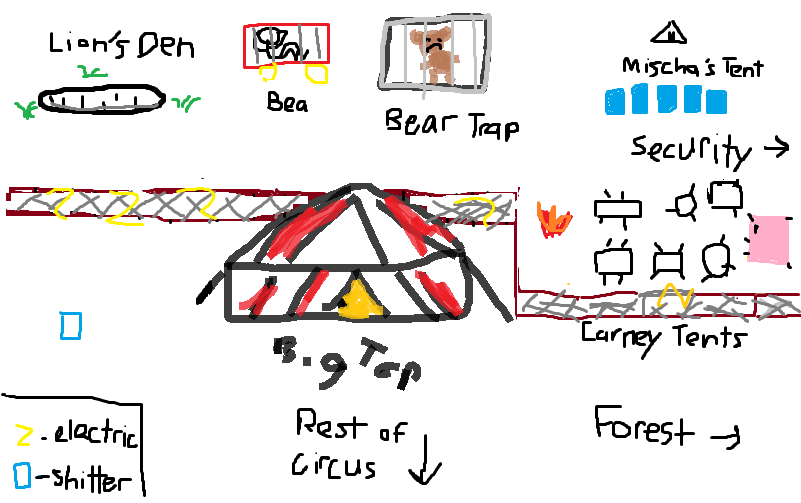
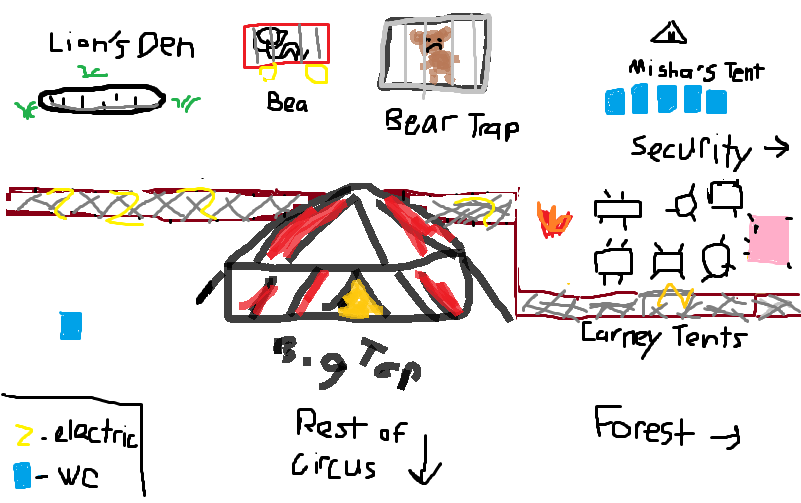
Fixed typo and map

Changed region(s): [[0.7803, 0.1193, 0.9675, 0.1789], [0.0, 0.9245, 0.1561, 0.9841], [0.0624, 0.6262, 0.1248, 0.6859]]

diff --git a/index.html b/index.html
@@ -89,7 +89,7 @@
               <div class="layout_hello__content">
                 <div class="container-fluid">
                   <div class="d-block row">
-                    <p>Uh, so, I don't know how to tell you this, but the bears have been acting real strange. They've been huddled together at the corner of their cages, grunting to each other real quiet, looking over their shoulders to check if anyone's listening, stopping the second they notice me. They're planning something, I can feel it.<p>Now, before you go, "Oh that Mischa with his conspiracy theories of the bears plotting and the lions unionizing", I'm really worried here. These animals are smarter than you think they are, and they know they ain't being treated right. The only way I can get them to do any tricks nowadays is if I bribe them with honey. Now I don't mean they do the trick and I give them honey, I mean I say "I'll give you honey if do this trick" and they perk up and do the trick. They can understand me, I swear to God.</p><p>I respect you, Barien. You're the best damn ringmaster this circus has ever seen, and I ain't just saying that because you're the only ringmaster this circus has ever seen. But you're being really stubborn when it comes to making sure the animals are comfortable and happy. We have <em>mountains</em> of honey in this damn circus, yet barely any of it gets to the bears!</p><p><strong>Please,</strong> Barien. Just give the bears some more honey after performances. Otherwise, we're gonna have to deal with some very angry bears, and you don't want that. Trust me. Think about it, okay, Boss?</p><p><strong>Mischa the Bear Tamer</strong></p></p>
+                    <p>Uh, so, I don't know how to tell you this, but the bears have been acting real strange. They've been huddled together at the corner of their cages, grunting to each other real quiet, looking over their shoulders to check if anyone's listening, stopping the second they notice me. They're planning something, I can feel it.<p>Now, before you go, "Oh that Misha with his conspiracy theories of the bears plotting and the lions unionizing", I'm really worried here. These animals are smarter than you think they are, and they know they ain't being treated right. The only way I can get them to do any tricks nowadays is if I bribe them with honey. Now I don't mean they do the trick and I give them honey, I mean I say "I'll give you honey if do this trick" and they perk up and do the trick. They can understand me, I swear to God.</p><p>I respect you, Barien. You're the best damn ringmaster this circus has ever seen, and I ain't just saying that because you're the only ringmaster this circus has ever seen. But you're being really stubborn when it comes to making sure the animals are comfortable and happy. We have <em>mountains</em> of honey in this damn circus, yet barely any of it gets to the bears!</p><p><strong>Please,</strong> Barien. Just give the bears some more honey after performances. Otherwise, we're gonna have to deal with some very angry bears, and you don't want that. Trust me. Think about it, okay, Boss?</p><p><strong>Misha the Bear Tamer</strong></p></p>
                   </div>
                 </div>
               </div>
